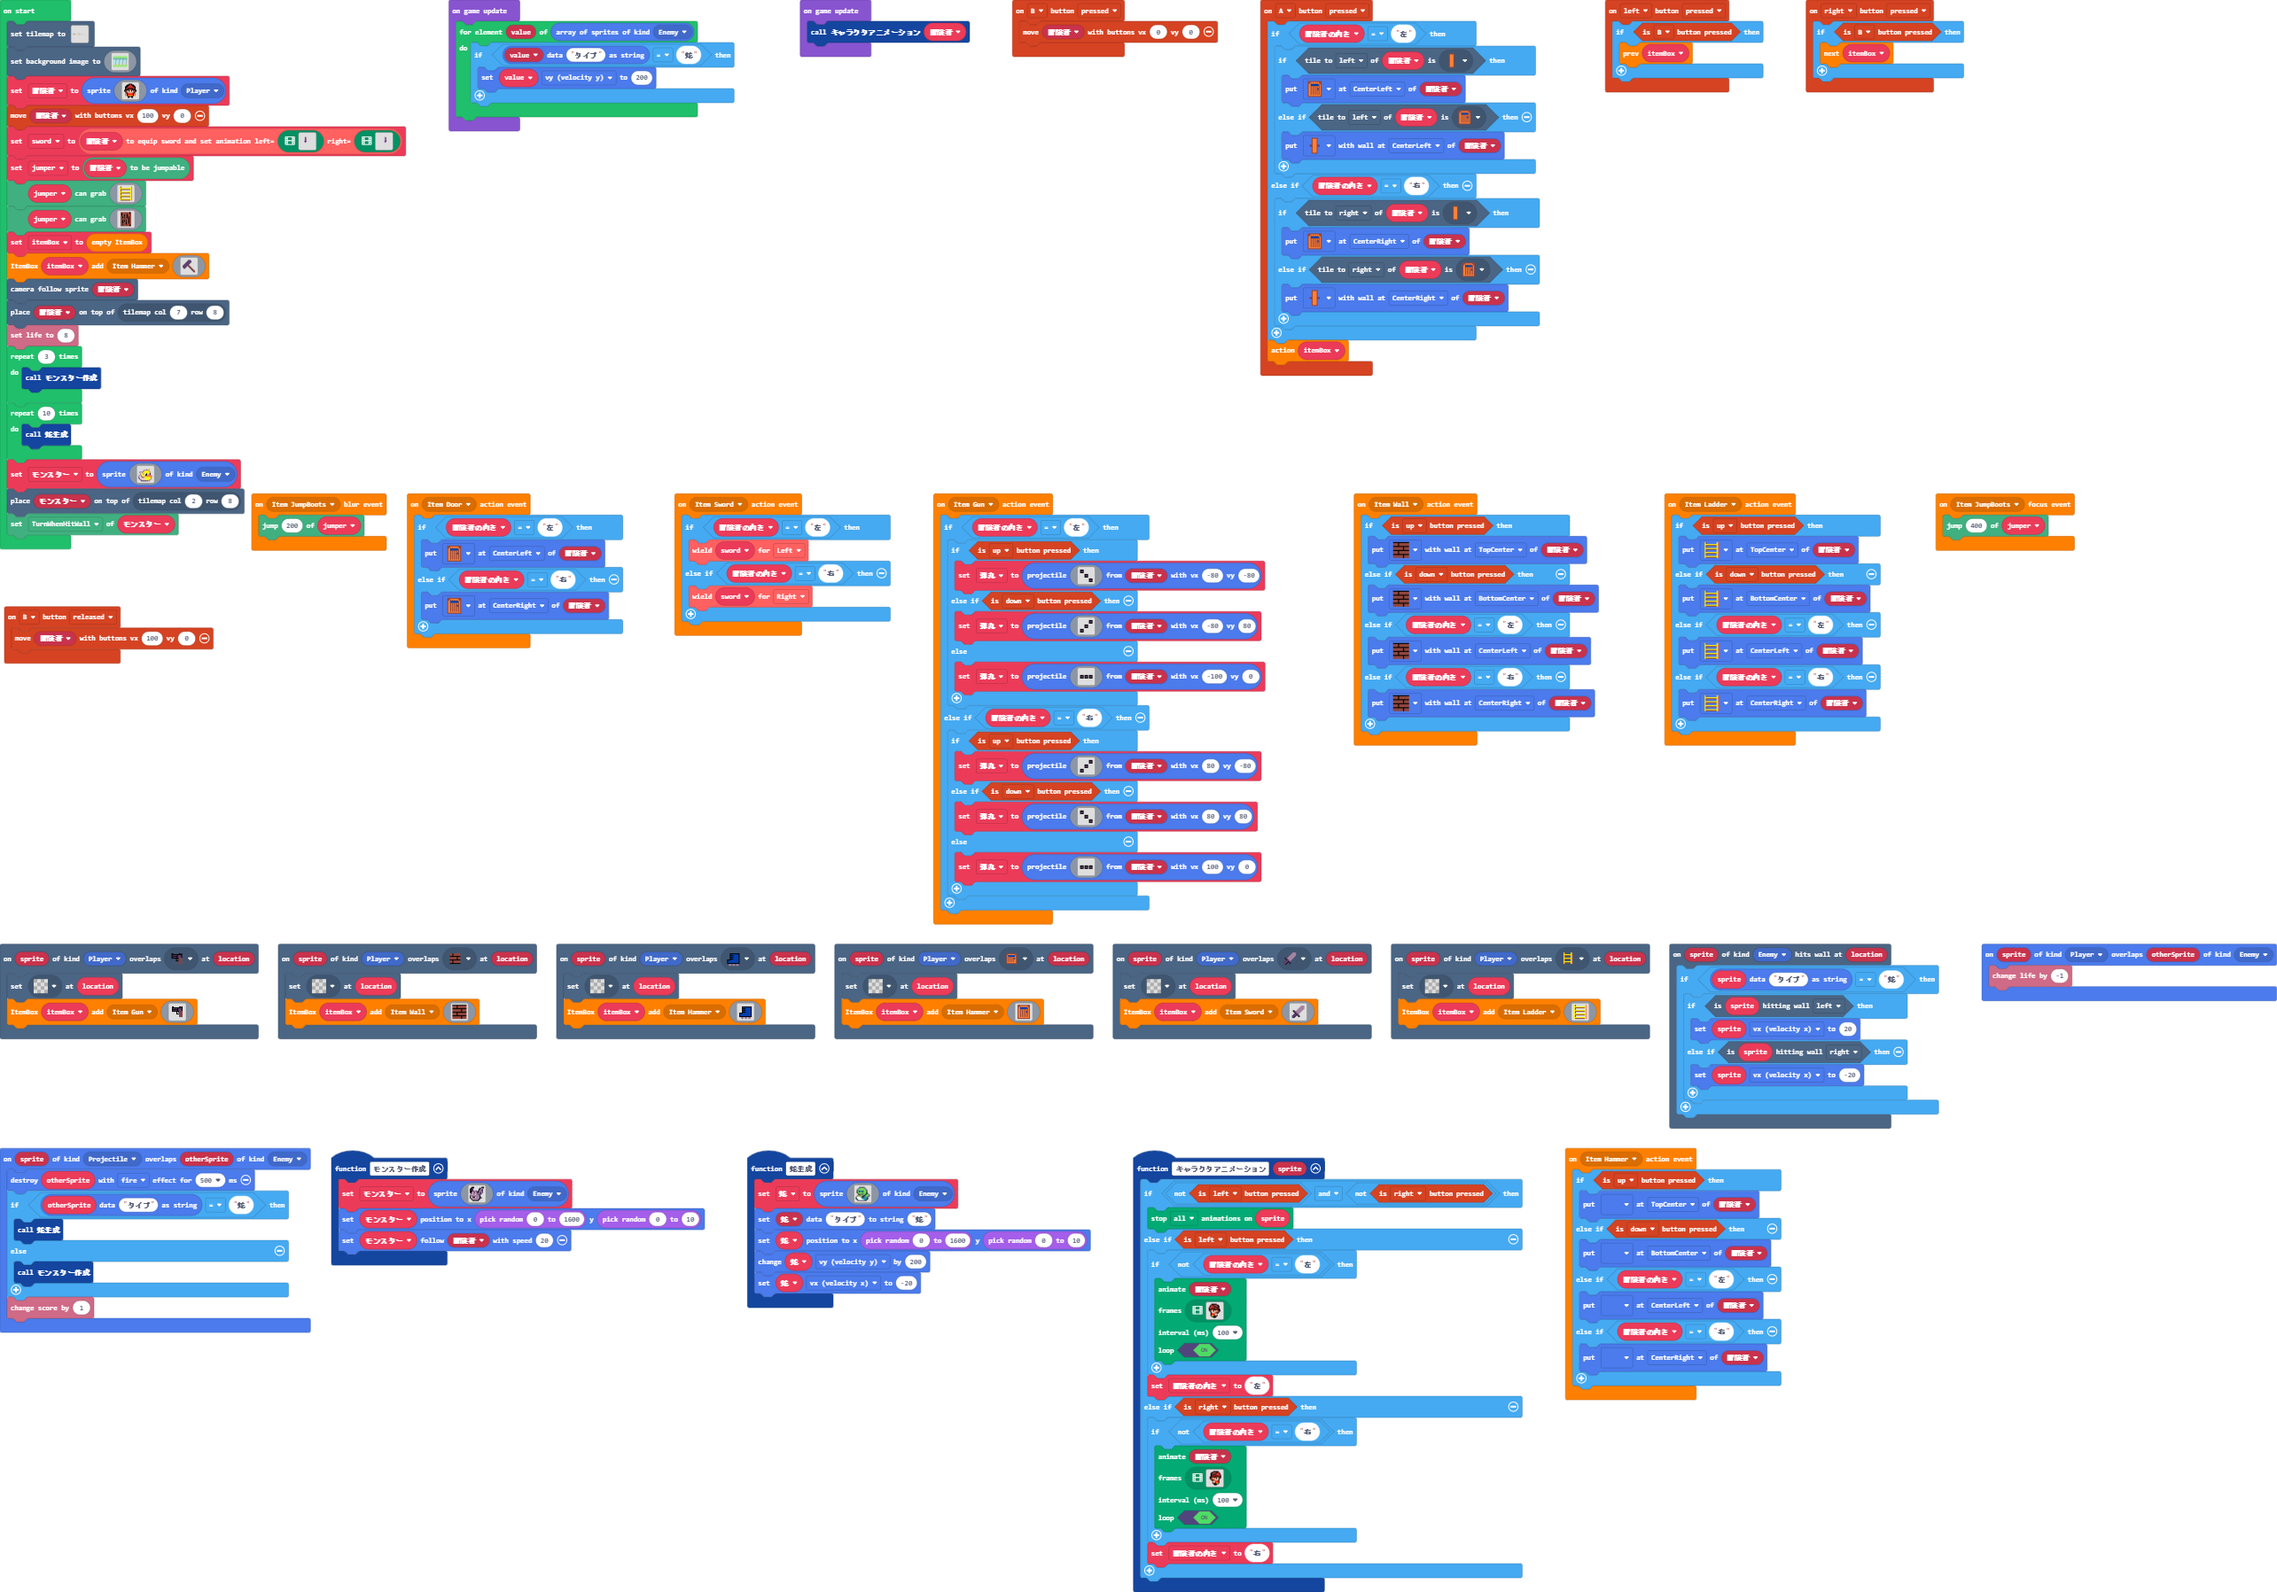
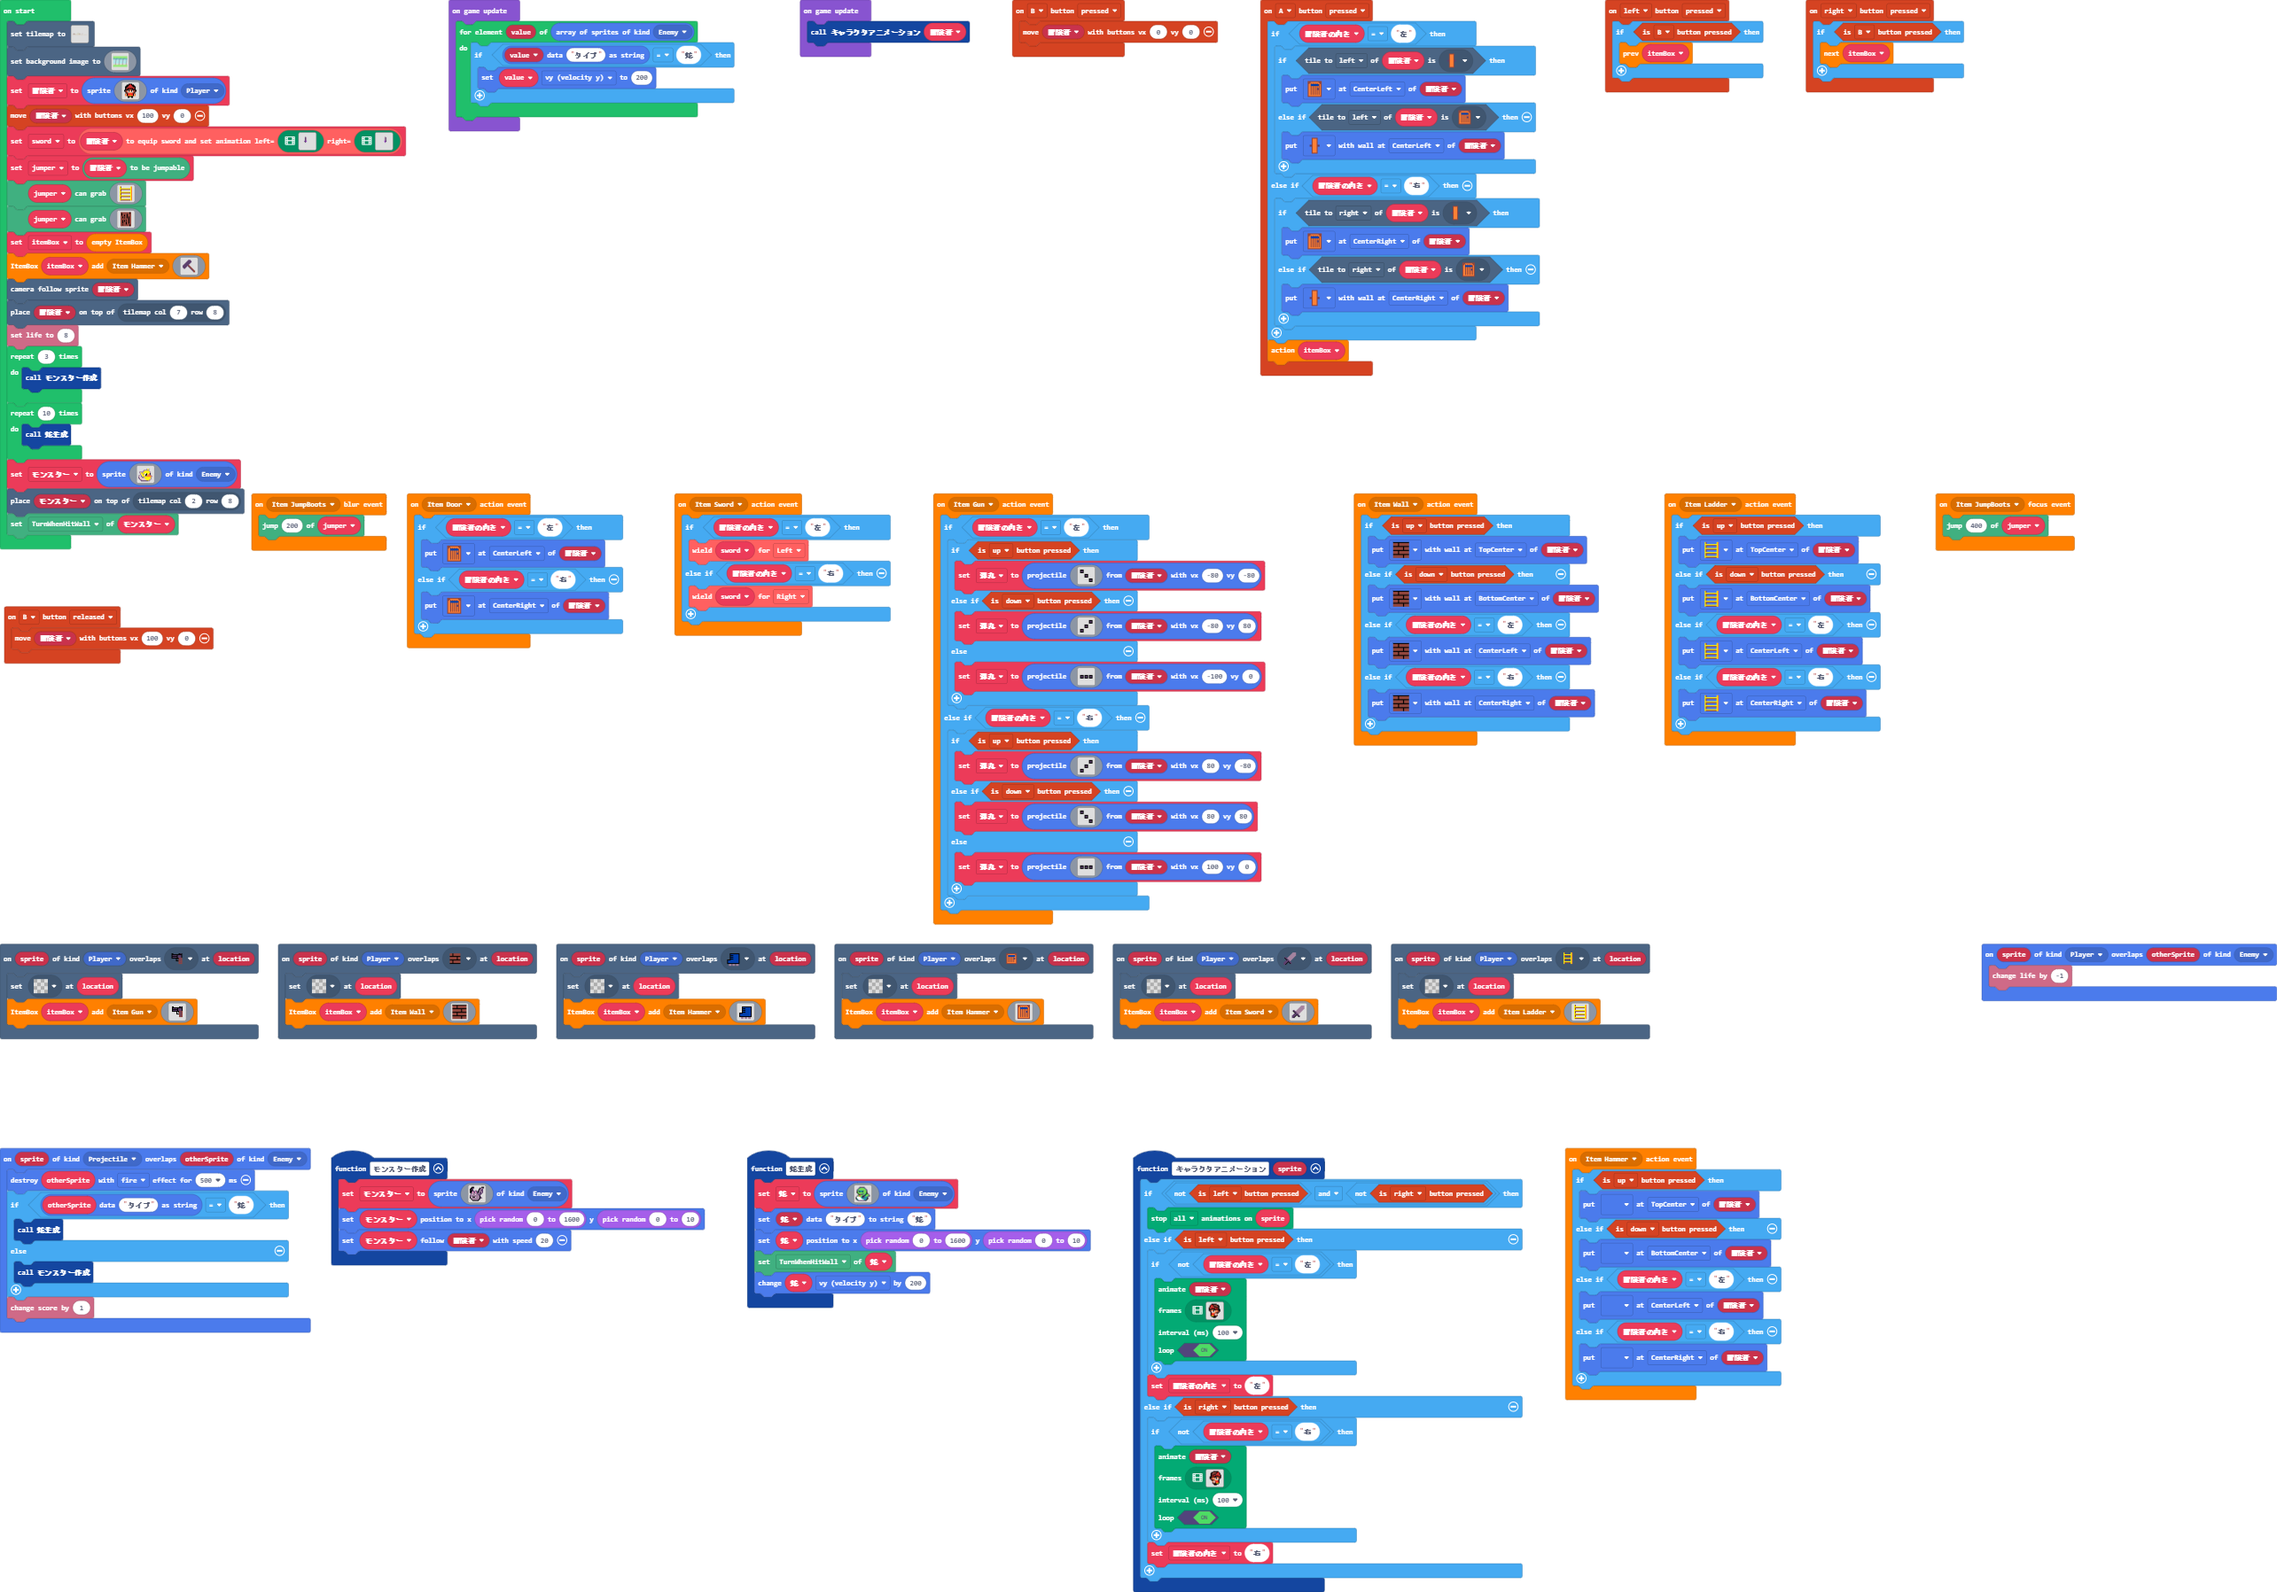
Update main.blocks, main.ts, tilemap.g.jres, tilemap.g.ts, behavior.ts

Changed region(s): [[0.7162, 0.5921, 0.8719, 0.7168], [0.3114, 0.7791, 0.4048, 0.8102]]

diff --git a/tilemap.g.ts b/tilemap.g.ts
@@ -48,6 +48,25 @@ namespace myTiles {
 . . . . . . . . . . . . . . . . 
 . . . . . . . . . . . . . . . . 
 `, [myTiles.transparency16], TileScale.Sixteen);
+            case "level3":
+            case "level3":return tiles.createTilemap(hex`1000100000000000000000000000000000000000000000000000000000000000000000000000000000000000000000000000000000000000000000000000000000000000000000000000000000000000000000000000000000000000000000000000000000000000000000000000000000000000000000000000000000000000000000000000000000000000000000000000000000000000000000000000000000000000000000000000000000000000000000000000000000000000000000000000000000000000000000000000000000000000000000000000000000000000000000000000000000000000000000000000000000000000000000000000000000000000`, img`
+. . . . . . . . . . . . . . . . 
+. . . . . . . . . . . . . . . . 
+. . . . . . . . . . . . . . . . 
+. . . . . . . . . . . . . . . . 
+. . . . . . . . . . . . . . . . 
+. . . . . . . . . . . . . . . . 
+. . . . . . . . . . . . . . . . 
+. . . . . . . . . . . . . . . . 
+. . . . . . . . . . . . . . . . 
+. . . . . . . . . . . . . . . . 
+. . . . . . . . . . . . . . . . 
+. . . . . . . . . . . . . . . . 
+. . . . . . . . . . . . . . . . 
+. . . . . . . . . . . . . . . . 
+. . . . . . . . . . . . . . . . 
+. . . . . . . . . . . . . . . . 
+`, [myTiles.transparency16], TileScale.Sixteen);
             case "level1":
[1 lines of base64/hex data omitted]
 ..................................22222222..........................................................
@@ -58,7 +77,7 @@ namespace myTiles {
 ................................22..22.22............................2..............................
 ......22222....................222..22.22....2222.222..............2................................
 ......2...2...................2222..22...........................2..................................
-......2......................22222..22.22......................2....................................
+......2...2..................22222..22.22......................2....................................
 ......22222..........22.....222222..22.22....................2......................................
 .......222..........222....222...............2.222222...............................................
 ......2222.........2222...2222......................................................................

diff --git a/main.ts b/main.ts
@@ -78,15 +78,6 @@ itembox.util.onEvent(ItemKind.Sword, function () {
         sword.wield(weapons.sword.Direction.Right)
     }
 })
-scene.onHitWall(SpriteKind.Enemy, function (sprite, location) {
-    if (sprites.readDataString(sprite, "タイプ") == "蛇") {
-        if (sprite.isHittingTile(CollisionDirection.Left)) {
-            sprite.vx = 20
-        } else if (sprite.isHittingTile(CollisionDirection.Right)) {
-            sprite.vx = -20
-        }
-    }
-})
 scene.onOverlapTile(SpriteKind.Player, assets.tile`hand_gun`, function (sprite, location) {
     tiles.setTileAt(location, assets.tile`transparency16`)
     itemBox.add(ItemKind.Gun, assets.tile`hand_gun`)
@@ -130,8 +121,8 @@ function 蛇生成 () {
     蛇 = sprites.create(assets.image`snake_left`, SpriteKind.Enemy)
     sprites.setDataString(蛇, "タイプ", "蛇")
     蛇.setPosition(randint(0, 1600), randint(0, 10))
+    behavior.setPattern(蛇, behavior.Pattern.TurnWhenHitWall)
     蛇.vy += 200
-    蛇.vx = -20
 }
 scene.onOverlapTile(SpriteKind.Player, assets.tile`door`, function (sprite, location) {
     tiles.setTileAt(location, assets.tile`transparency16`)
@@ -533,7 +524,7 @@ for (let index = 0; index < 10; index++) {
     . . . c c c c c c c c b b . . . 
     `, SpriteKind.Enemy)
 tiles.placeOnTile(モンスター, tiles.getTileLocation(2, 8))
-behavior.putTileWithWall(モンスター, behavior.Pattern.TurnWhenHitWall)
+behavior.setPattern(モンスター, behavior.Pattern.TurnWhenHitWall)
 game.onUpdate(function () {
     for (let value of sprites.allOfKind(SpriteKind.Enemy)) {
         if (sprites.readDataString(value, "タイプ") == "蛇") {

diff --git a/behavior.ts b/behavior.ts
@@ -13,17 +13,19 @@ namespace behavior {
 
 
     //% block="set $pattern of $sprite=variables_get(aEnemy)"
-    export function putTileWithWall(sprite: Sprite, pattern: Pattern) {
+    export function setPattern(sprite: Sprite, pattern: Pattern) {
 
         sprites.setDataNumber(sprite, "pattern", pattern);
         sprite.vx = 20;
 
-        scene.onHitWall(SpriteKind.Enemy, (enemy, location) => {
-            if (sprites.readDataNumber(enemy, "pattern") == Pattern.TurnWhenHitWall) {
-                if (enemy.isHittingTile(CollisionDirection.Left)) {
-                    enemy.vx = 20
-                } else if (sprite.isHittingTile(CollisionDirection.Right)) {
-                    enemy.vx = -20
+        let kind = sprite.kind();
+
+        scene.onHitWall(kind, (target, location) => {
+            if (sprites.readDataNumber(target, "pattern") == Pattern.TurnWhenHitWall) {
+                if (target.isHittingTile(CollisionDirection.Left)) {
+                    target.vx = 20
+                } else if (target.isHittingTile(CollisionDirection.Right)) {
+                    target.vx = -20
                 }
             }
         });
